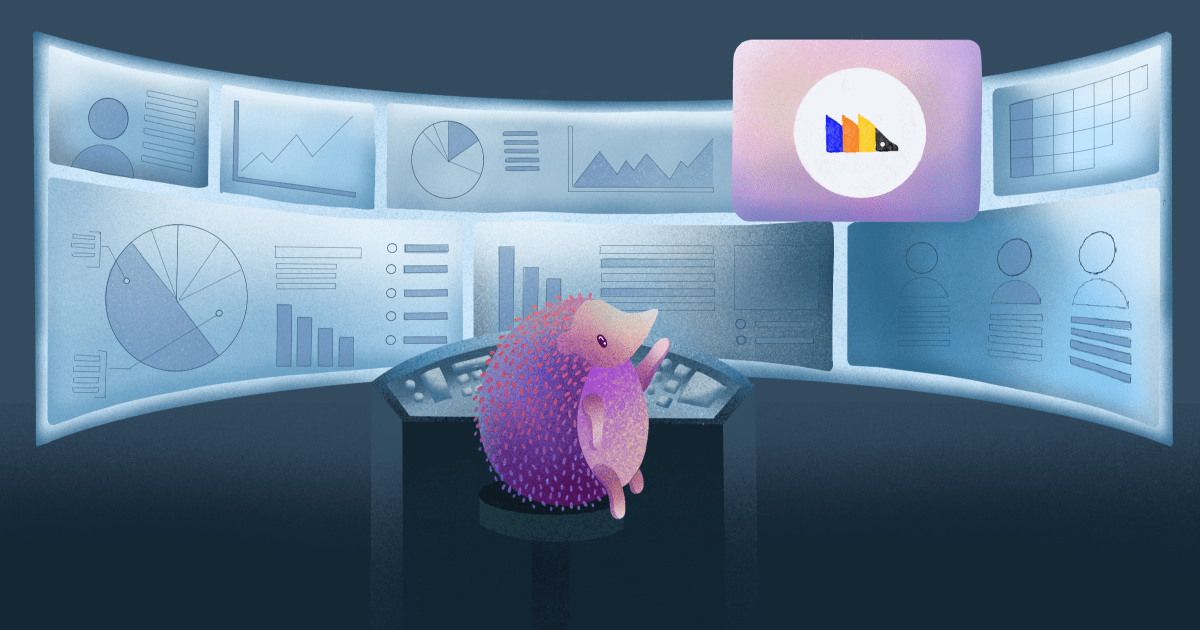
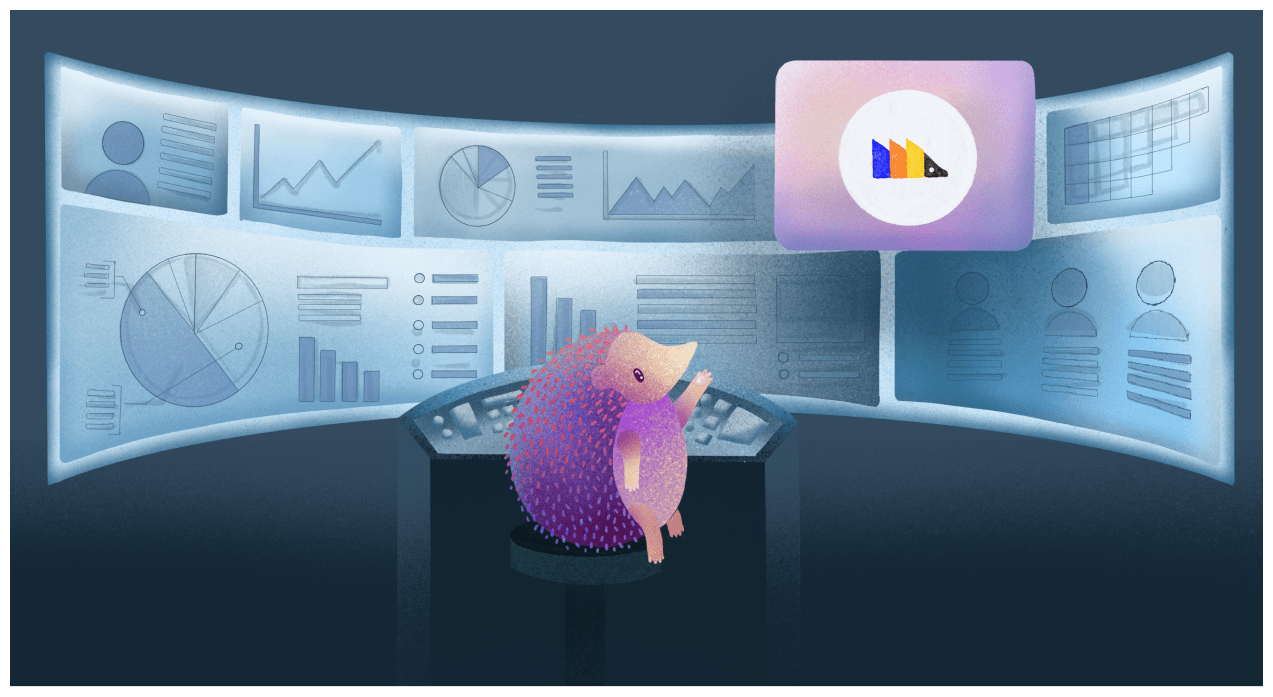
Running content at posthog (#1741)
* Create running-content-at-posthog.md

* Update running-content-at-posthog.md

* Update running-content-at-posthog.md

* Add safe redirects

* Update running-content-at-posthog.md

* added featuredImage

* added featured image URL

* Delete old image

* Add new image per @lottiecoxon

diff --git a/contents/blog/running-content-at-posthog.md b/contents/blog/running-content-at-posthog.md
@@ -1,6 +1,6 @@
 ---
 date: 2021-08-06
-title: Running content at a devtool company
+title: Content marketing strategy for devtool companies - How we do it at PostHog
 rootPage: /blog
 sidebar: Blog
 showTitle: true
